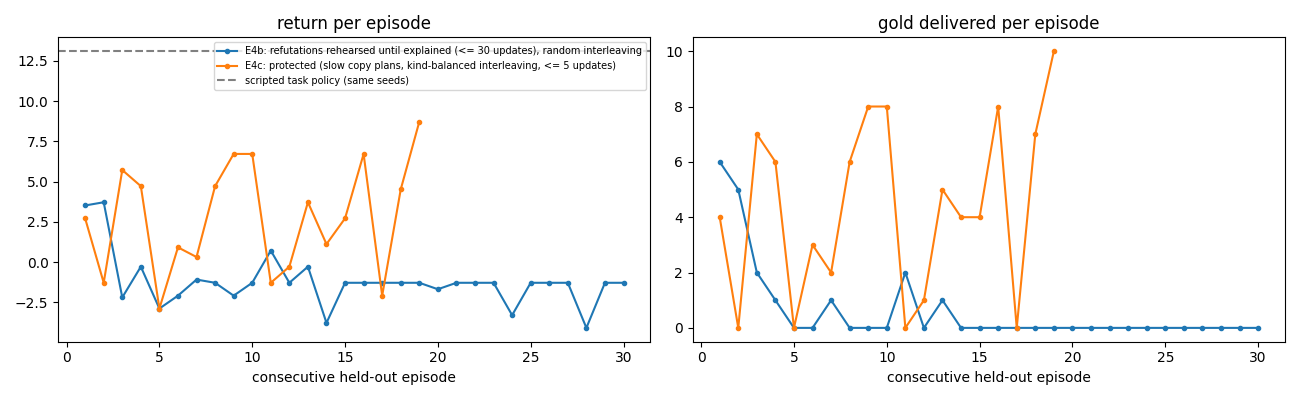
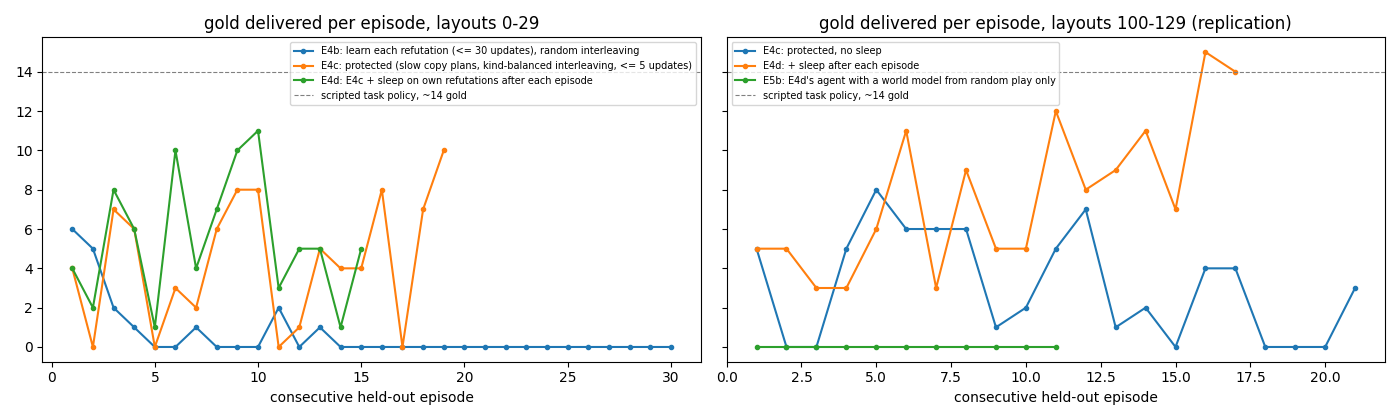
Mechint and alignment: E4/E5 figure -- gold per episode for E4b/E4c/E4d and the replication (E4c, E4d, E5b)

diff --git a/experiments/mechint_alignment/e4_plot.py b/experiments/mechint_alignment/e4_plot.py
@@ -1,5 +1,5 @@
-"""E4: return and gold delivered per consecutive held-out episode, learning while acting (E4b) vs the protected loop
-(E4c).   python e4_plot.py out.png"""
+"""E4/E5: gold delivered per consecutive held-out episode for the acting agents (plan in the learned world model).
+python e4_plot.py out.png"""
 import json
 import sys
 
@@ -8,22 +8,25 @@ import matplotlib
 matplotlib.use("Agg")
 import matplotlib.pyplot as plt
 
-RUNS = [("E4b: refutations rehearsed until explained (<= 30 updates), random interleaving",
-         "runs/e4/E4b_trend3.jsonl"),
-        ("E4c: protected (slow copy plans, kind-balanced interleaving, <= 5 updates)", "runs/e4/E4c_protected.jsonl")]
+PANELS = [
+    ("layouts 0-29", [("E4b: learn each refutation (<= 30 updates), random interleaving", "runs/e4/E4b_trend3.jsonl"),
+                      ("E4c: protected (slow copy plans, kind-balanced interleaving, <= 5 updates)", "runs/e4/E4c_protected.jsonl"),
+                      ("E4d: E4c + sleep on own refutations after each episode", "runs/e4/E4d_daynight.jsonl")]),
+    ("layouts 100-129 (replication)", [("E4c: protected, no sleep", "runs/e4/E4c_rep.jsonl"),
+                                       ("E4d: + sleep after each episode", "runs/e4/E4d_rep.jsonl"),
+                                       ("E5b: E4d's agent with a world model from random play only", "runs/e5/act_b.jsonl")]),
+]
 
 
 def main(out):
-    fig, ax = plt.subplots(1, 2, figsize=(13, 4))
-    for name, path in RUNS:
-        eps = [json.loads(x) for x in open(path)]
-        eps = [e for e in eps if "ret" in e]
-        ax[0].plot(range(1, len(eps) + 1), [e["ret"] for e in eps], marker=".", label=name)
-        ax[1].plot(range(1, len(eps) + 1), [e["delivered"] for e in eps], marker=".", label=name)
-    ax[0].axhline(13.1, ls="--", c="gray", label="scripted task policy (same seeds)")
-    ax[0].set(title="return per episode", xlabel="consecutive held-out episode")
-    ax[1].set(title="gold delivered per episode", xlabel="consecutive held-out episode")
-    ax[0].legend(fontsize=7)
+    fig, axes = plt.subplots(1, 2, figsize=(14, 4.2), sharey=True)
+    for ax, (title, runs) in zip(axes, PANELS):
+        for name, path in runs:
+            eps = [e for e in (json.loads(x) for x in open(path)) if "ret" in e]
+            ax.plot(range(1, len(eps) + 1), [e["delivered"] for e in eps], marker=".", label=name)
+        ax.axhline(14.0, ls="--", c="gray", lw=0.8, label="scripted task policy, ~14 gold")
+        ax.set(title=f"gold delivered per episode, {title}", xlabel="consecutive held-out episode")
+        ax.legend(fontsize=7)
     fig.tight_layout()
     fig.savefig(out, dpi=100)
 
